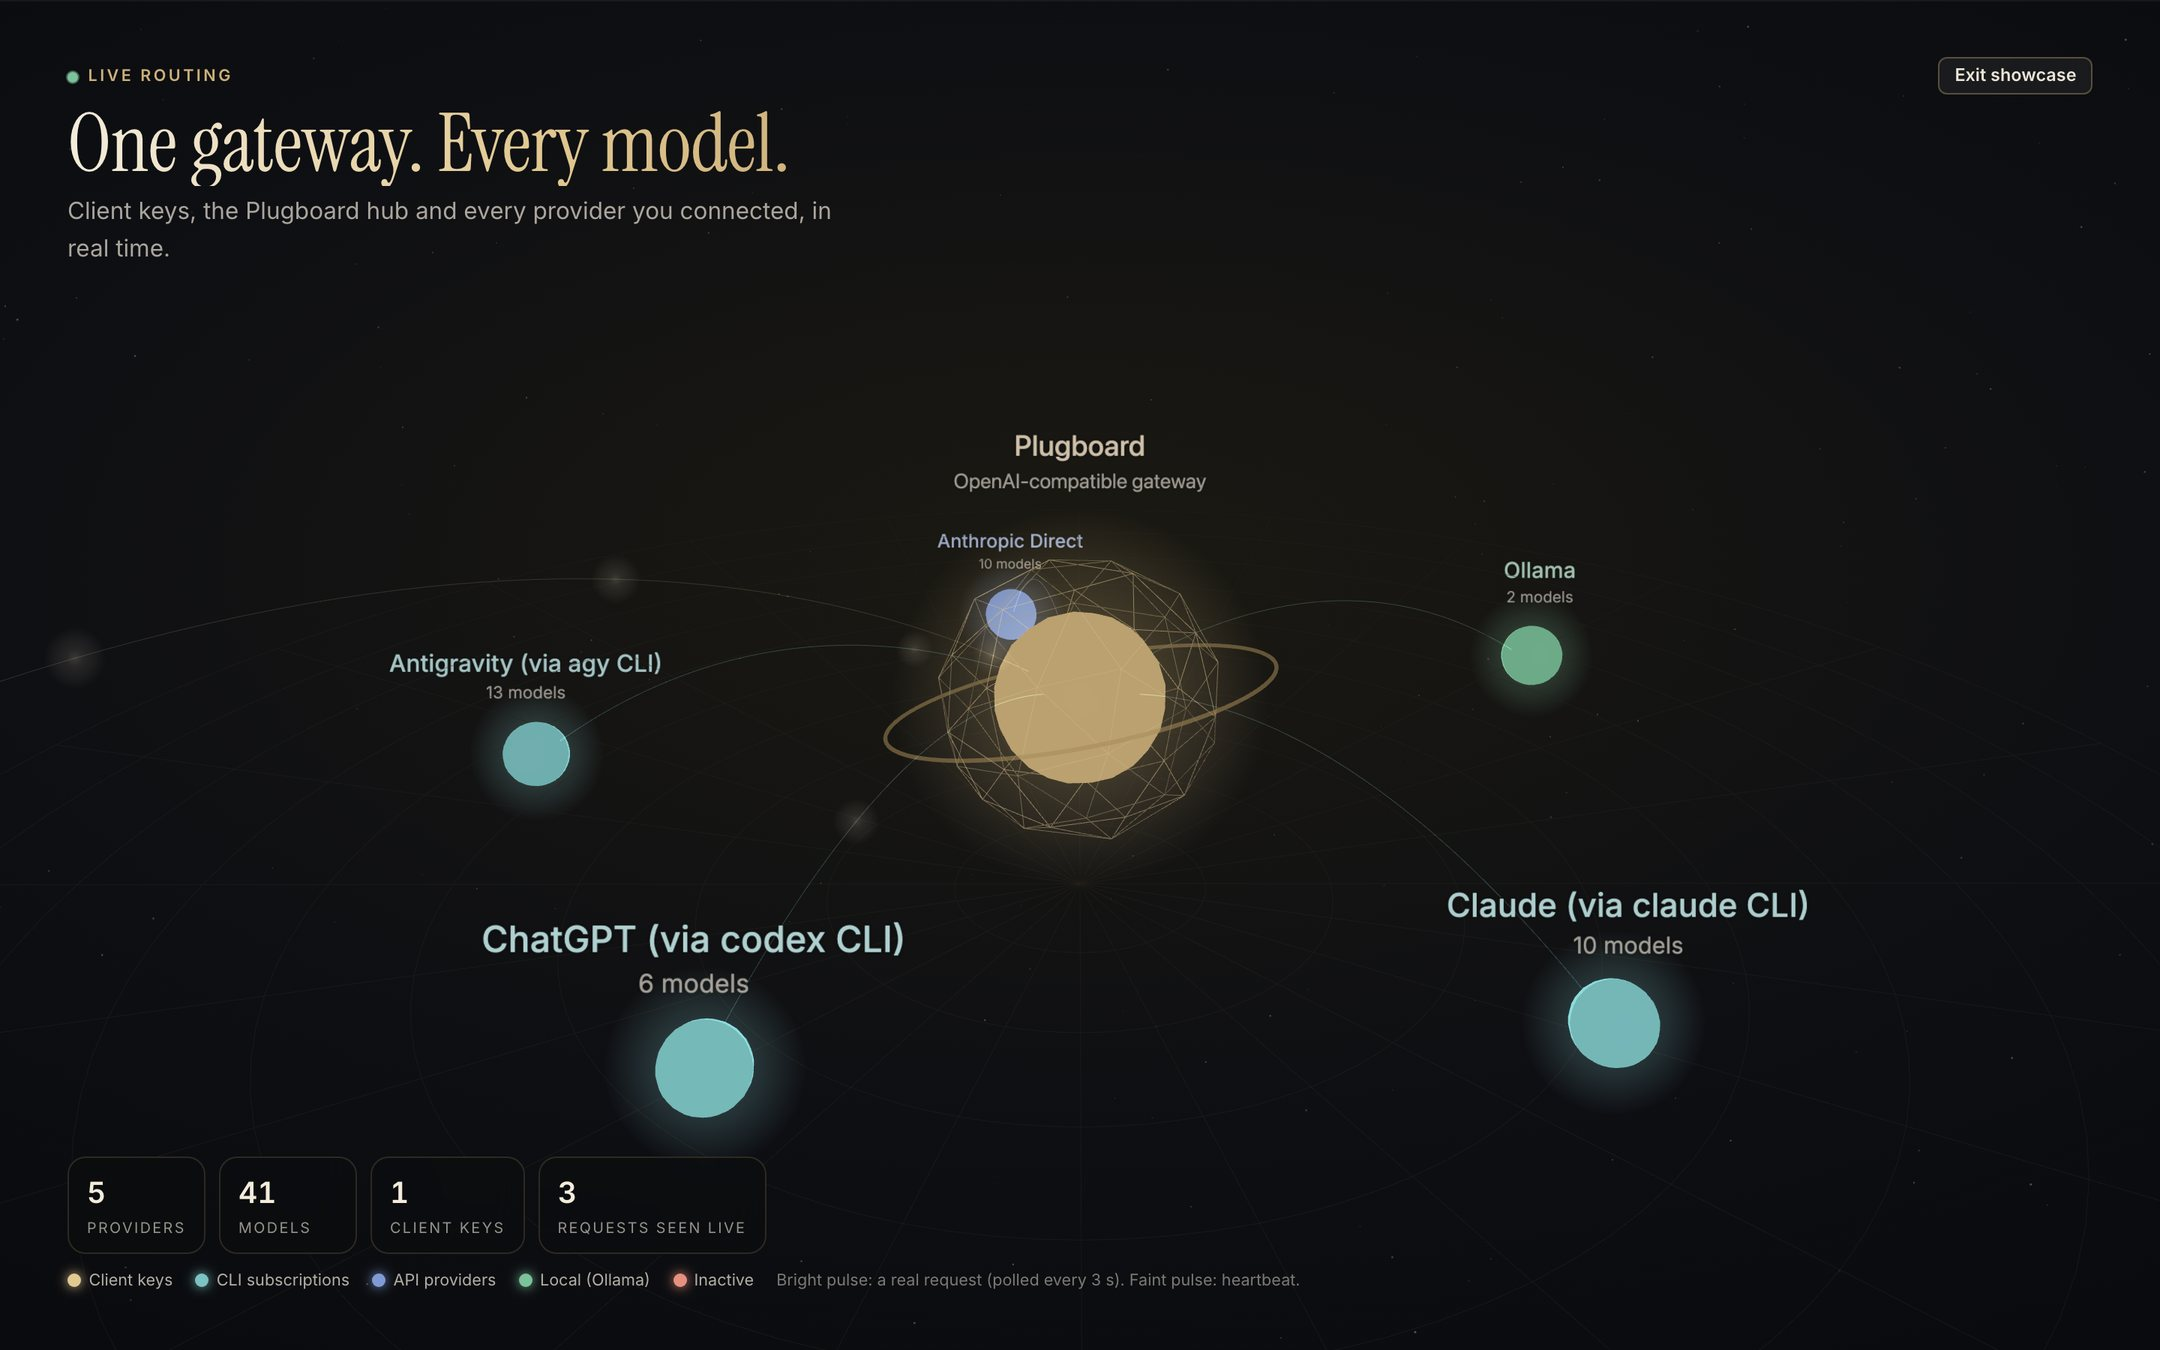
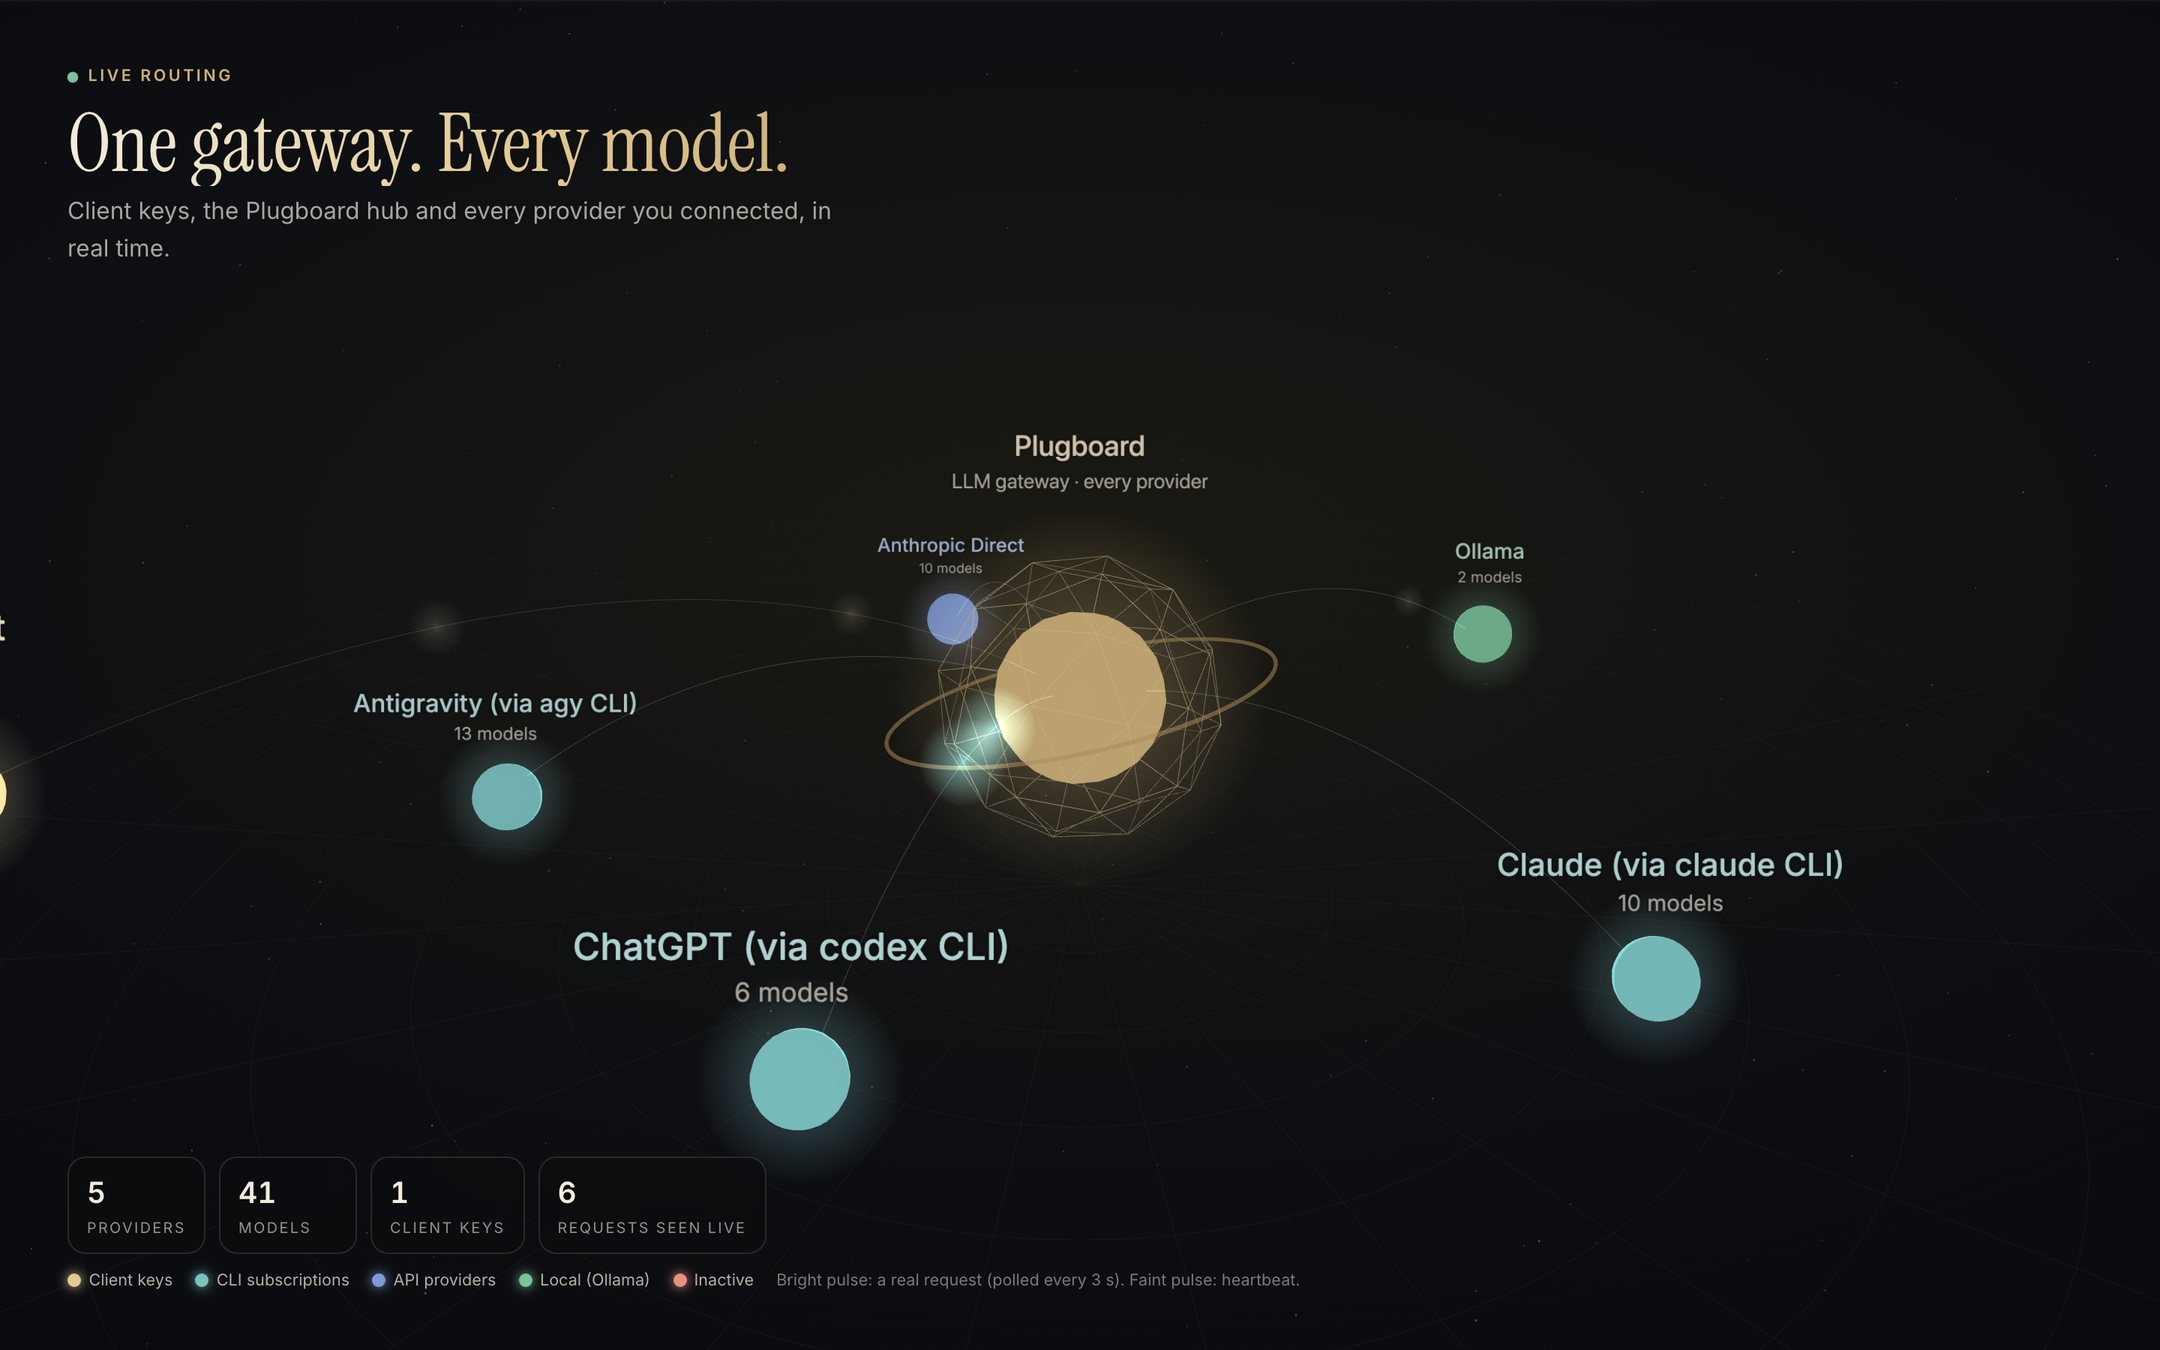
docs: present Plugboard as a gateway for every provider

diff --git a/static/live3d.js b/static/live3d.js
@@ -157,7 +157,7 @@ class LiveRouting {
     this.hubShell = shell;
     this.hubRing = ring;
     this.hub.add(core, shell, halo, ring);
-    const label = labelSprite("Plugboard", "OpenAI-compatible gateway", COLORS.hub);
+    const label = labelSprite("Plugboard", "LLM gateway · every provider", COLORS.hub);
     label.position.set(0, 2.9, 0);
     label.scale.set(5, 1.25, 1);
     this.hub.add(label);

diff --git a/static/index.html b/static/index.html
@@ -478,6 +478,6 @@
 <div class="toast-container" id="toast-container"></div>
 <script src="/dashboard/app.js?v=16"></script>
 <script src="/dashboard/auto_update.js?v=4"></script>
-<script type="module" src="/dashboard/live3d.js?v=4"></script>
+<script type="module" src="/dashboard/live3d.js?v=5"></script>
 </body>
 </html>

diff --git a/plugboard/app.py b/plugboard/app.py
@@ -1,5 +1,5 @@
 """
-Plugboard -- OpenAI-compatible proxy server.
+Plugboard -- self-hosted LLM gateway: one API for every provider.
 
 Endpoints:
   POST /v1/chat/completions    -- proxy to configured provider (streaming supported)
@@ -446,7 +446,7 @@ async def _lifespan(application: FastAPI):  # noqa: ARG001
 
 app = FastAPI(
     title="Plugboard",
-    description="OpenAI-compatible LLM proxy -- route any model to any provider",
+    description="Self-hosted LLM gateway -- one standard chat API, every provider behind it",
     version=__version__,
     docs_url=None,  # disable default /docs — we serve it auth-protected below
     redoc_url=None,  # disable default /redoc

diff --git a/README.md b/README.md
@@ -6,7 +6,7 @@
 
 <p align="center">
   <strong>One gateway. Every model.</strong><br>
-  A self-hosted, OpenAI-compatible gateway that puts all your LLM providers and subscriptions behind one endpoint, with per-client keys, spending limits, caching, fallback, monitoring and an automatically updated pricing grid.
+  A self-hosted gateway that puts every LLM provider (Anthropic, OpenAI, Google, Mistral, DeepSeek, Ollama, OpenRouter, your Claude, ChatGPT and Antigravity subscriptions...) behind one endpoint, with per-client keys, spending limits, caching, fallback, monitoring and an automatically updated pricing grid.
 </p>
 
 <p align="center">
@@ -20,7 +20,7 @@
   <img src="docs/assets/screenshots/showcase.jpg" alt="Live routing view: client keys, the Plugboard hub and every connected provider, with real requests shown as pulses" width="900">
 </p>
 
-Plugboard is a standalone service: it runs on its own host, independent of the applications that use it, and owns the provider credentials, the routing and the bills. Your providers live in one place: API keys (OpenAI, Anthropic, Google, GitHub Models), a local Ollama, any OpenAI-compatible server, or subscriptions you are already logged into through an official CLI. Each consumer (an application, a script, an agent, an MCP client) gets its own `pb_` key and talks to one endpoint, `http://<host>:8765/v1`, in the OpenAI format, so no consumer embeds a vendor key or vendor code. Every call is metered per key and checked against that consumer's limits.
+Plugboard is a standalone service: it runs on its own host, independent of the applications that use it, and owns the provider credentials, the routing and the bills. It is not tied to one vendor: your providers live in one place, whether API keys (Anthropic, OpenAI, Google, GitHub Models, Mistral, DeepSeek...), resellers such as OpenRouter, a local or cloud Ollama, your own model servers, or subscriptions you are already logged into through an official CLI. Each consumer (an application, a script, an agent, an MCP client) gets its own `pb_` key and talks to one endpoint, `http://<host>:8765/v1`. That endpoint speaks the de facto standard chat API that most SDKs already use, so a consumer switches from Claude to Gemini to a local model by changing a model name, never its code, and never embeds a vendor key. Every call is metered per key and checked against that consumer's limits.
 
 Python 3.12 · FastAPI · no external database (JSON files and SQLite under `data/`) · MIT licensed.
 
@@ -28,8 +28,8 @@ Python 3.12 · FastAPI · no external database (JSON files and SQLite under `dat
 
 ## Features
 
-- **One OpenAI-compatible API**: `POST /v1/chat/completions` (streaming over SSE), `GET /v1/models`, `GET /health`. Existing OpenAI SDKs, LangChain and curl work unchanged.
-- **Many providers, one model namespace**: models are addressed as `<provider>:<model>`. Built-in presets, every OpenAI-compatible provider of the [models.dev](https://models.dev) catalog (OpenRouter, OpenCode, Kimi, Groq, DeepSeek, Mistral...) in one click, custom endpoints, Ollama (auto-detected), and subscription access through the Claude Code, Codex and Antigravity (`agy`) CLIs or the GitHub CLI. Model lists refresh every 6 hours and changes are journaled and sent as webhooks.
+- **One API for every provider**: `POST /v1/chat/completions` (streaming over SSE), `GET /v1/models`, `GET /health`, in the standard chat format, whatever provider answers behind it. The OpenAI SDKs, LangChain, LlamaIndex and curl work unchanged.
+- **Many providers, one model namespace**: models are addressed as `<provider>:<model>`. Built-in presets (Anthropic, OpenAI, Google Gemini, GitHub Models), the providers of the [models.dev](https://models.dev) catalog (OpenRouter, OpenCode, Kimi, Groq, DeepSeek, Mistral...) in one click, custom endpoints, Ollama (auto-detected), and subscription access through the Claude Code, Codex and Antigravity (`agy`) CLIs or the GitHub CLI. Model lists refresh every 6 hours and changes are journaled and sent as webhooks.
 - **Per-client keys**: create `pb_` keys from the dashboard, each with a monthly USD budget, a requests-per-minute limit and an optional list of allowed models. Keys are stored as SHA-256 hashes and shown once.
 - **Usage and billing**: tokens and cost are recorded for every request, per client, per key and per month. Responses carry `X-Cost-USD`, `X-Prompt-Tokens` and `X-Completion-Tokens`. CSV export and a read-only client portal.
 - **Automatic pricing grid**: one grid per month (USD per million tokens), refreshed every 6 hours from several sources (your own JSON, OpenRouter, models.dev, LiteLLM), with the source of every price, reseller prices per provider, large changes held for your review, and manual prices that no source overwrites. Optionally, a model reads provider pricing pages and proposes prices for you to approve.
@@ -140,7 +140,7 @@ Both are good tools; pick the one that matches your constraints.
 |---|---|---|---|
 | Where it runs | Your machine or server | Your machine or server | Hosted service |
 | Who sees your prompts | Only the providers you configure | Only the providers you configure | OpenRouter and the upstream provider |
-| Provider coverage | Built-in presets plus the OpenAI-compatible providers of models.dev | Very broad (100+ providers) | Very broad catalog |
+| Provider coverage | Built-in presets, the models.dev catalog, Ollama, CLI subscriptions and custom endpoints | Very broad (100+ providers) | Very broad catalog |
 | Consumer subscriptions via CLIs | Yes, at your own risk | No | No |
 | Per-client keys with monthly USD limits and RPM limits | Yes, built in, with a dashboard | Yes (virtual keys, budgets) | Per-account credits and keys |
 | MCP server with an update registry for client projects | Yes | No | No |

diff --git a/CLAUDE.md b/CLAUDE.md
@@ -1,6 +1,6 @@
 # Notes for coding agents
 
-Plugboard is a self-hosted, OpenAI-compatible LLM gateway (Python 3.12, FastAPI).
+Plugboard is a self-hosted LLM gateway for every provider, behind one standard chat API (Python 3.12, FastAPI).
 Human documentation lives in `README.md` and `docs/guide/`; this file only lists
 what an agent needs to work safely in the repository.
 
